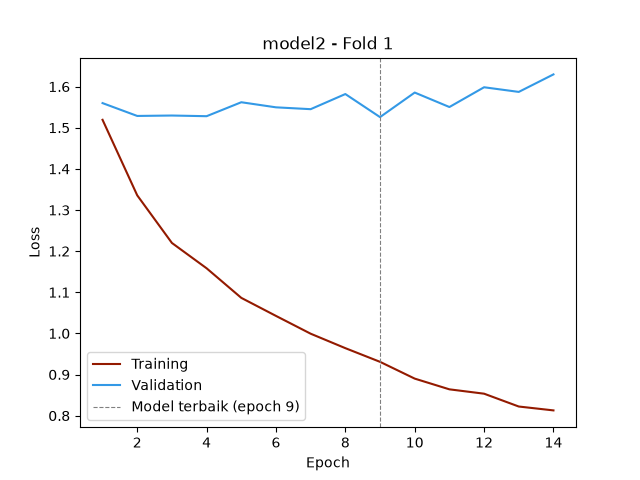
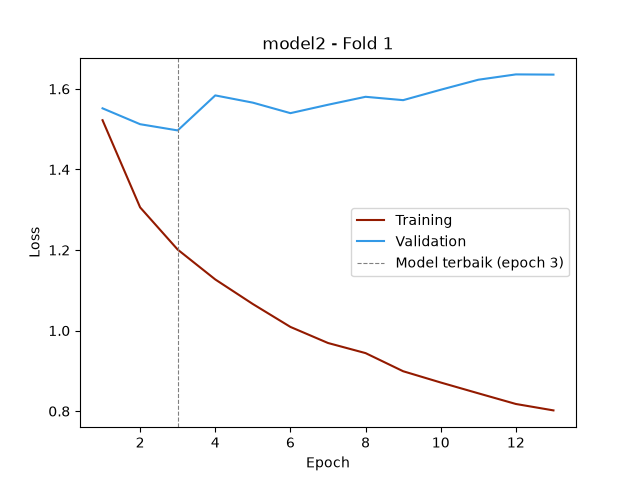
Rapikan Model 2 dan hasil 5 fold dengan preprocessing baru dan hapus hasil percobaan model 3

diff --git a/Models/CNN2.py b/Models/CNN2.py
@@ -10,6 +10,8 @@ class SimpleCNNReg(nn.Module):
       2. Dropout2d di blok konvolusi       -> menjatuhkan seluruh feature map secara acak
       3. Dropout sebelum Linear            -> mencegah fc menghafal data latih
     Bentuk tensor sama seperti Model 1 (input 100x100 -> output 6 kelas).
+    Dilatih dengan train.py yang sama seperti model lain (Adam, NLLLoss, data dari getData.py);
+    pengaturan latihannya ada di entri "model2" pada config.py.
     """
 
     def __init__(self, input_c=3, output=6, dropout_conv=0.1, dropout_fc=0.5):
@@ -43,66 +45,13 @@ class SimpleCNNReg(nn.Module):
         return self.logSoftmax(x)
 
 
-# ---------------------------------------------------------------------------
-# Pelengkap training (bagian terpenting untuk menekan overfitting)
-# ---------------------------------------------------------------------------
-from torchvision import transforms
-
-# 1. Data augmentation: HANYA untuk data latih, bukan validasi/test
-train_transform = transforms.Compose([
-    transforms.Resize((100, 100)),
-    transforms.RandomHorizontalFlip(),
-    transforms.RandomRotation(15),
-    transforms.ColorJitter(brightness=0.2, contrast=0.2),
-    transforms.ToTensor(),
-    transforms.Normalize([0.5] * 3, [0.5] * 3),
-])
-eval_transform = transforms.Compose([
-    transforms.Resize((100, 100)),
-    transforms.ToTensor(),
-    transforms.Normalize([0.5] * 3, [0.5] * 3),
-])
-
-
-class EarlyStopping:
-    """Hentikan training jika val_loss tidak membaik, simpan bobot terbaik."""
-
-    def __init__(self, patience=7, path="best_model2.pt"):
-        self.patience, self.path = patience, path
-        self.best, self.counter = float("inf"), 0
-
-    def step(self, val_loss, model):
-        if val_loss < self.best:
-            self.best, self.counter = val_loss, 0
-            torch.save(model.state_dict(), self.path)
-            return False
-        self.counter += 1
-        return self.counter >= self.patience
-
-
-def build_training(model, lr=1e-3):
-    # 2. Weight decay (L2) lewat AdamW
-    optimizer = torch.optim.AdamW(model.parameters(), lr=lr, weight_decay=1e-2)
-    # 3. Turunkan learning rate saat val_loss stagnan
-    scheduler = torch.optim.lr_scheduler.ReduceLROnPlateau(
-        optimizer, mode="min", factor=0.5, patience=3
-    )
-    criterion = nn.NLLLoss()  # cocok dengan LogSoftmax
-    return optimizer, scheduler, criterion
-
-
-# Pola loop training:
-#   model.train() -> hitung loss latih
-#   model.eval() + torch.no_grad() -> hitung val_loss
-#   scheduler.step(val_loss)
-#   if early_stopper.step(val_loss, model): break
-#   Setelah selesai: model.load_state_dict(torch.load("best_model2.pt"))
-
-
 if __name__ == "__main__":
+    # Uji cepat: python Models/CNN2.py
     model = SimpleCNNReg()
+    model.eval()                          # dropout mati saat uji
     dummy = torch.rand(2, 3, 100, 100)
-    out = model(dummy)
+    with torch.no_grad():
+        out = model(dummy)
     print("Bentuk output :", tuple(out.shape))                      # (2, 6)
     print("Jumlah peluang:", out.exp().sum(dim=1))                  # ~1.0
     print("Jumlah parameter:", sum(p.numel() for p in model.parameters()))

diff --git a/config.py b/config.py
@@ -26,15 +26,15 @@ CONFIGS = {
         "patience": None,
     },
 
-    # Model 2: SimpleCNN dengan parameter berbeda (diisi anggota Model 2)
+    # Model 2: SimpleCNN + regularisasi (BatchNorm2d, Dropout2d, Dropout sebelum Linear)
     "model2": {
-    "model": SimpleCNNReg,
-    "model_args": {"output": 6},
-    "img_size": 100,
-    "batch_size": 16,
-    "epoch": 20,
-    "lr": 0.0001,
-    "patience": 5,
+        "model": SimpleCNNReg,
+        "model_args": {"output": 6},
+        "img_size": 100,
+        "batch_size": 16,
+        "epoch": 30,
+        "lr": 0.0001,
+        "patience": 10,
     },
 
     # Model 3 (FINAL): ConvNeXt-Tiny pretrained ImageNet (transfer learning)
@@ -42,11 +42,10 @@ CONFIGS = {
     "model3": {
         "model": ConvNeXtTiny,
         "model_args": {"output": 6, "pretrained": True},
-        "img_size": 224,    
-        "batch_size": 16,   
-        "epoch": 10,        
-        "lr": 0.00003,      
-        "patience": 5,      
+        "img_size": 224,
+        "batch_size": 16,
+        "epoch": 10,
+        "lr": 0.00003,
+        "patience": 5,
     },
-
 }
